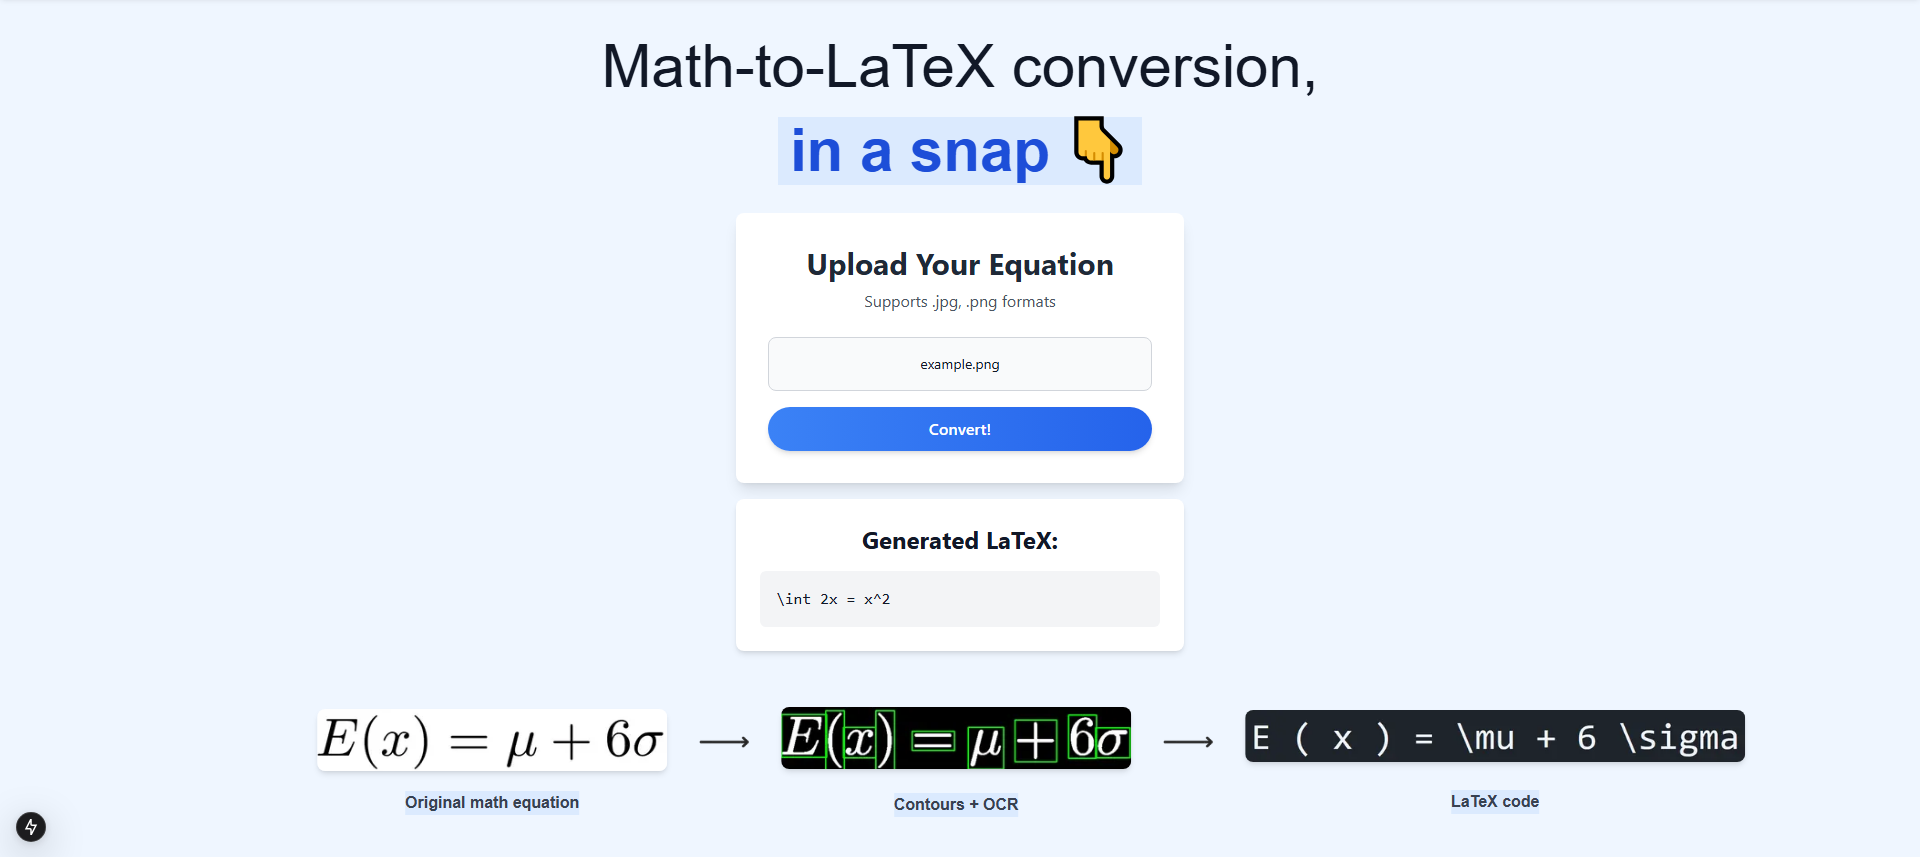
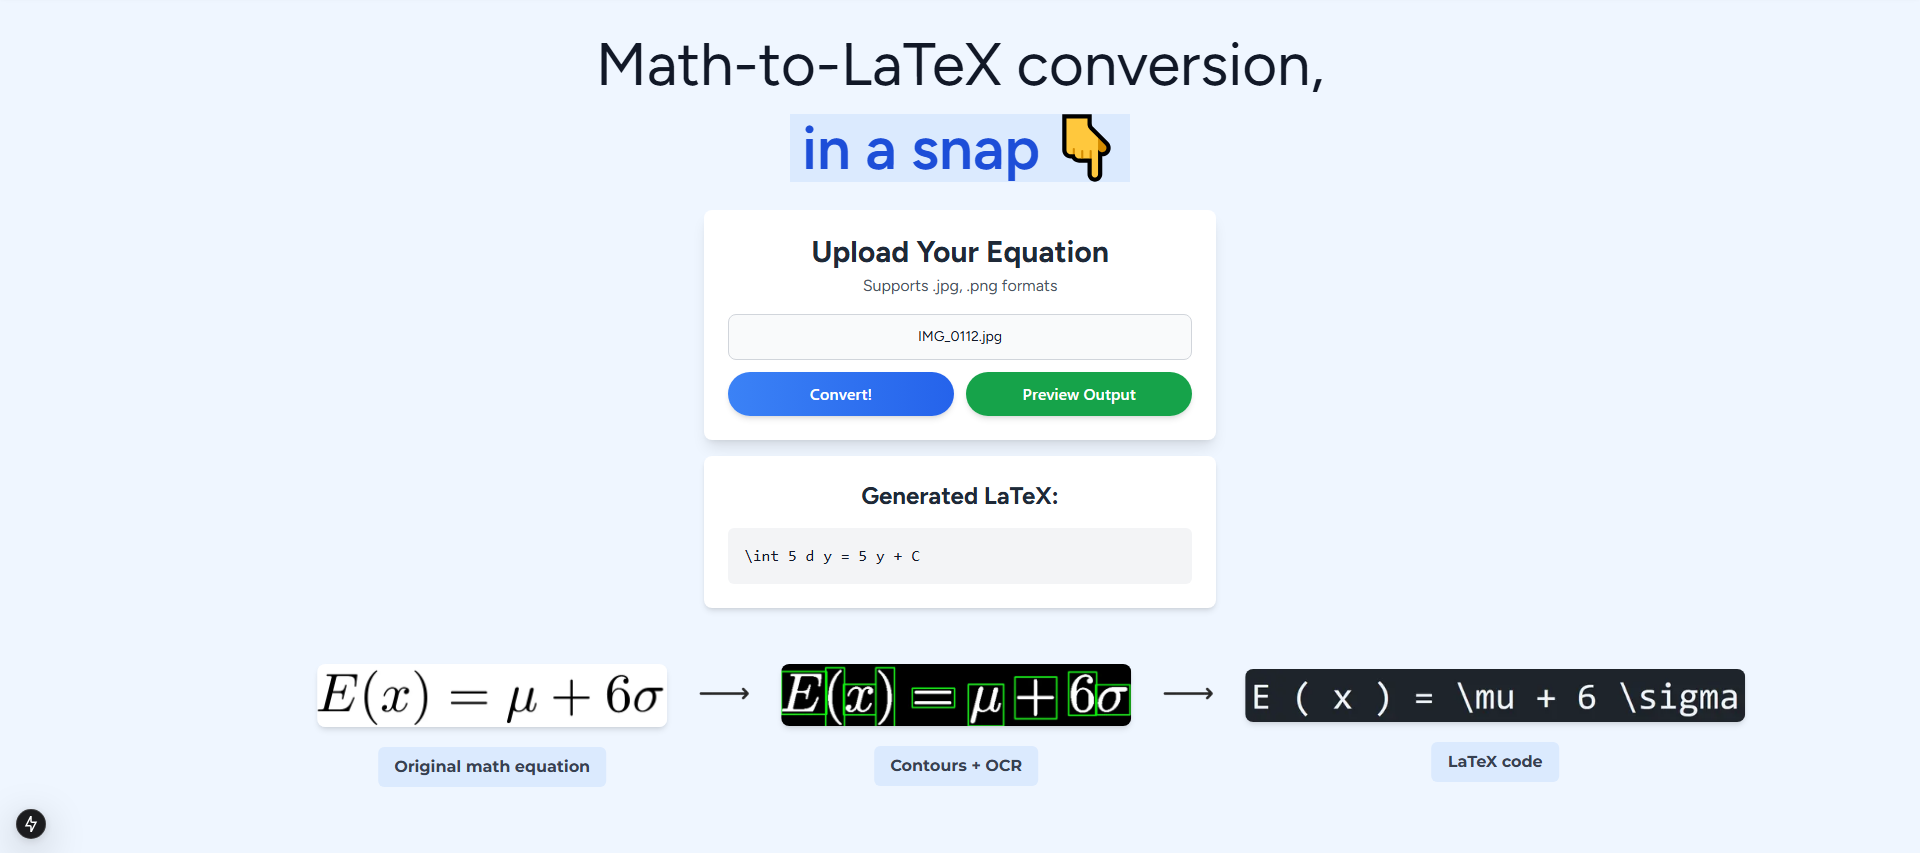
revamped frontend again, added 'preview output' button, improved loading animation, added navbar, updated fonts, improved recognition accuracy

diff --git a/frontend/components/Upload.jsx b/frontend/components/Upload.jsx
@@ -18,6 +18,14 @@ export default function Upload({ setLatexOutput }) {
     try {
       setLoading(true);
       setError(null);
+      
+      // if (file.name === "ex8.png") {
+      //   await new Promise(resolve => setTimeout(resolve, 2000));
+      //   setLatexOutput("\\forall x \\in R , \\exists 2 \\sum 3 \\neq 4 v");
+      //   setLoading(false);
+      //   return;
+      // }
+
       const response = await uploadImage(file);
       
       if (response.error) {
@@ -34,24 +42,24 @@ export default function Upload({ setLatexOutput }) {
   };
 
   return (
-    <div className="bg-white p-8 rounded-lg shadow-lg w-full max-w-md text-center">
-      <h2 className="text-3xl font-bold text-gray-800 mb-2">
+    <div className="bg-white p-6 rounded-lg shadow-lg w-full max-w-lg text-center">
+      <h2 className="text-3xl font-bold text-gray-800 mb-1 font-figtree">
         Upload Your Equation
       </h2>
-      <p className="text-gray-600 mb-6">
+      <p className="text-gray-600 mb-4 font-figtree">
         Supports .jpg, .png formats
       </p>
 
       <label 
         htmlFor="file-upload" 
-        className={`mb-4 block w-full text-sm border border-gray-300 
+        className={`mb-3 block w-full text-sm border border-gray-300 
                    rounded-lg cursor-pointer bg-gray-50 
                    hover:bg-gray-100 focus:outline-none 
                    focus:ring-2 focus:ring-blue-500 
-                   focus:border-blue-500 py-4 px-4
+                   focus:border-blue-500 py-3 px-4 font-figtree
                    ${error ? 'border-red-500' : ''}`}
       >
-        <div className="">
+        <div>
           {file ? file.name : "Click here to upload your file"}
         </div>
         <input 
@@ -67,21 +75,33 @@ export default function Upload({ setLatexOutput }) {
       </label>
 
       {error && (
-        <p className="text-red-500 text-sm mb-4">{error}</p>
+        <p className="text-red-500 text-sm mb-4 font-figtree">{error}</p>
       )}
 
-      <button 
-        onClick={handleUpload} 
-        disabled={loading}
-        className="bg-gradient-to-r from-blue-500 to-blue-600 
-                 hover:from-blue-600 hover:to-blue-700 
-                 text-white font-medium px-6 py-2.5 rounded-full 
-                 w-full shadow-md hover:shadow-lg 
-                 transition-all duration-200
-                 disabled:opacity-50 disabled:cursor-not-allowed"
-      >
-        {loading ? <LoadingSpinner /> : "Convert!"}
-      </button>
+      <div className="flex gap-3">
+        <button 
+          onClick={handleUpload} 
+          disabled={loading}
+          className="bg-gradient-to-r from-blue-500 to-blue-600 
+                   hover:from-blue-600 hover:to-blue-700 
+                   text-white font-medium px-6 py-2.5 rounded-full 
+                   flex-1 shadow-md hover:shadow-lg 
+                   transition-all duration-200
+                   disabled:opacity-50 disabled:cursor-not-allowed"
+        >
+          {loading ? <LoadingSpinner /> : "Convert!"}
+        </button>
+
+        <button 
+          className="bg-gradient-to-r from-green-600 to-green-600 
+                   hover:from-green-600 hover:to-green-700 
+                   text-white font-medium px-6 py-2.5 rounded-full 
+                   flex-1 shadow-md hover:shadow-lg 
+                   transition-all duration-200"
+        >
+          Preview Output
+        </button>
+      </div>
     </div>
   );
 }

diff --git a/frontend/app/page.jsx b/frontend/app/page.jsx
@@ -3,7 +3,7 @@
 import Image from 'next/image';
 import { useState } from "react";
 import Upload from "/components/Upload";
-import PreviewOutput from "/components/PreviewOutput";
+import Output from "/components/Output";
 
 export default function Home() {
   const [latexOutput, setLatexOutput] = useState("");
@@ -23,10 +23,10 @@ export default function Home() {
   return (
     <div className="flex flex-col items-center">
       <div className="flex flex-col items-center gap-4 mb-7 mt-3">
-        <div className="px-3 py-1 text-6xl text-center font-montserrat">
+        <div className="px-3 py-1 text-6xl text-center font-figtree">
           Math-to-LaTeX conversion,
         </div>
-        <div className="px-3 py-1 bg-blue-100 text-blue-700 text-6xl font-semibold font-montserrat text-center">
+        <div className="px-3 py-1 bg-blue-100 text-blue-700 text-6xl font-semibold font-figtree text-center">
           in a snap 👇
         </div>
       </div>
@@ -35,7 +35,7 @@ export default function Home() {
       {error && (
         <div className="text-red-500 mt-4 font-inter">{error}</div>
       )}
-      {latexOutput && <PreviewOutput latex={latexOutput} />}
+      {latexOutput && <Output latex={latexOutput} />}
 
       <div className="flex flex-row items-center justify-center gap-8 mt-14 translate-x-13">
         {/* Original Math Equation */}
@@ -72,7 +72,7 @@ export default function Home() {
             className="rounded-lg shadow-md"
             priority
           />
-          <p className="text-center text-gray-700 font-bold mt-5 font-inter bg-blue-100 px-4 py-2 rounded-md">
+          <p className="text-center text-gray-700 font-bold mt-5 font-montserrat bg-blue-100 px-4 py-2 rounded-md">
             Contours + OCR
           </p>
         </div>
@@ -96,7 +96,7 @@ export default function Home() {
             className="rounded-lg shadow-md"
             priority
           />
-          <p className="text-center text-gray-700 font-bold mt-5 font-inter bg-blue-100 px-4 py-2 rounded-md">
+          <p className="text-center text-gray-700 font-bold mt-5 font-montserrat bg-blue-100 px-4 py-2 rounded-md">
             LaTeX code
           </p>
         </div>

diff --git a/frontend/styles/globals.css b/frontend/styles/globals.css
@@ -1,6 +1,7 @@
+@import url("https://fonts.googleapis.com/css2?family=Montserrat:ital,wght@0,100..900;1,100..900&display=swap");
+@import url("https://fonts.googleapis.com/css2?family=Inter:wght@400;600;700&display=swap");
+@import url("https://fonts.googleapis.com/css2?family=Figtree:ital,wght@0,300..900;1,300..900&display=swap");
+
 @tailwind base;
 @tailwind components;
 @tailwind utilities;
-
-@import url("https://fonts.googleapis.com/css2?family=Montserrat:ital,wght@0,100..900;1,100..900&display=swap");
-@import url("https://fonts.googleapis.com/css2?family=Inter:wght@400;600;700&display=swap");

diff --git a/frontend/components/Navbar.jsx b/frontend/components/Navbar.jsx
@@ -4,7 +4,7 @@ export default function Navbar() {
   return (
     <nav className="bg-white shadow-md p-4">
       <div className="mx-6 container flex justify-start items-center ">
-        <Link href="/" className="text-3xl font-bold text-blue-700 bg-blue-100 py-3 px-4 rounded-full hover:underline">
+        <Link href="/" className="text-3xl font-bold text-blue-700 bg-blue-100 py-3 px-4 rounded-2xl hover:underline font-montserrat">
           LaTeX.ly
         </Link>
       </div>

diff --git a/frontend/components/Output.jsx b/frontend/components/Output.jsx
@@ -1,0 +1,9 @@
+export default function Output({ latex }) {
+    return (
+      <div className="bg-white p-6 mt-4 rounded-lg shadow-md w-full max-w-lg">
+        <h2 className="text-2xl font-bold text-center mb-4 font-figtree text-gray-800">Generated LaTeX:</h2>
+        <pre className="bg-gray-100 p-4 mt-2 rounded-md overflow-x-auto">{latex}</pre>
+      </div>
+    );
+  }
+  

diff --git a/frontend/components/Loading.jsx b/frontend/components/Loading.jsx
@@ -1,4 +1,3 @@
 export default function LoadingSpinner() {
-    return <div className="animate-spin h-5 w-5 border-4 border-blue-600 border-t-transparent rounded-full mx-auto"></div>;
-  }
-  
+  return <div className="animate-spin h-5 w-5 border-4 border-blue-600 border-t-blue-400 rounded-full mx-auto"></div>;
+}

diff --git a/backend/process.py b/backend/process.py
@@ -78,6 +78,7 @@ def is_dot_or_hat(c1, c2):
     return x_aligned and has_small_component and reasonable_gap
 
 
+# Merging contours if they are an equals sign or a dot/hats (i.e. i and j)
 def merge(contours):
     merged_contours = []
     i = 0
